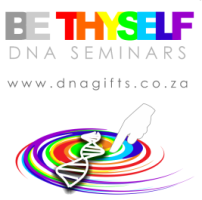
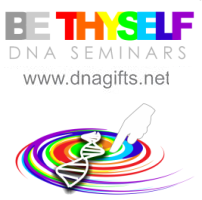
Change requests and updated (1.0.1)
- Applied some urgent change requests and update the the report.
- Gifts text formatting did not fit in PDF
- Report banner was missing after upgrading TCPDF, updated code to use
component media folder and not TCPDF
- Mountain graph heading was incorrect
- Many hardcoded links were wrong re attend event.
- Updated the raport banner and any imaged that had the old url in it.

Changed region(s): [[0.0297, 0.33, 0.9505, 0.45]]

diff --git a/com_dnagifts/site/helpers/dnagifts.php b/com_dnagifts/site/helpers/dnagifts.php
@@ -316,136 +316,5 @@ class DnagiftsHelper
 			}
 		}
 		return 0;
-	}
-	
-/*	
-	public static function generatepdf($author='Nicola Asuni', $title='TCPDF Example 001',
-				$subject='TCPDF Tutorial', $keywords='TCPDF, PDF, example, test, guide',
-				$documentname='example001', $html='No content', $displaytype='I')
-  {
-    @ob_end_clean();      
-    
-    require_once(JPATH_ROOT.DS.'tcpdf'.DS.'config/lang/eng.php');
-    require_once(JPATH_ROOT.DS.'tcpdf'.DS.'tcpdf.php');
-          
-    // create new PDF document
-    $pdf = new TCPDF(PDF_PAGE_ORIENTATION, PDF_UNIT, PDF_PAGE_FORMAT, true, 'UTF-8', false);
-    
-    // set document information
-    //$pdf->SetCreator(PDF_CREATOR);
-    $pdf->SetAuthor($author);
-    $pdf->SetTitle($title);
-    $pdf->SetSubject($subject);
-    $pdf->SetKeywords($keywords);
-    
-    // set default header data
-//    $pdf->SetHeaderData(PDF_HEADER_LOGO, PDF_HEADER_LOGO_WIDTH, PDF_HEADER_TITLE, PDF_HEADER_STRING);
-	$pdf->SetHeaderData('dna_banner1.jpg', 100, 'Your DNA Gifts Report', "by Juan Nel - DNAGifts.co.za\nwww.dnagifts.co.za");
-    
-    // set header and footer fonts
-    $pdf->setHeaderFont(Array(PDF_FONT_NAME_MAIN, '', PDF_FONT_SIZE_MAIN));
-    $pdf->setFooterFont(Array(PDF_FONT_NAME_DATA, '', PDF_FONT_SIZE_DATA));
-    
-    // set default monospaced font
-    $pdf->SetDefaultMonospacedFont(PDF_FONT_MONOSPACED);
-    
-    //set margins
-    $pdf->SetMargins(PDF_MARGIN_LEFT, PDF_MARGIN_TOP, PDF_MARGIN_RIGHT);
-    $pdf->SetHeaderMargin(PDF_MARGIN_HEADER);
-    $pdf->SetFooterMargin(PDF_MARGIN_FOOTER);
-    
-    //set auto page breaks
-    $pdf->SetAutoPageBreak(TRUE, PDF_MARGIN_BOTTOM);
-    
-    //set image scale factor
-    $pdf->setImageScale(PDF_IMAGE_SCALE_RATIO);
-    
-    //set some language-dependent strings
-    $pdf->setLanguageArray($l);
-    
-    // ---------------------------------------------------------
-    
-    // set default font subsetting mode
-    $pdf->setFontSubsetting(true);
-    
-    // Set font
-    // dejavusans is a UTF-8 Unicode font, if you only need to
-    // print standard ASCII chars, you can use core fonts like
-    // helvetica or times to reduce file size.
-    $pdf->SetFont('dejavusans', '', 14, '', true);
-    
-    // Add a page
-    // This method has several options, check the source code documentation for more information.
-    $pdf->AddPage();
-    
-    // Set some content to print
-//    $html = <<<EOD
-//<h1>Welcome to <a href="http://www.tcpdf.org" style="text-decoration:none;background-color:#CC0000;color:black;">&nbsp;<span style="color:black;">TC</span><span style="color:white;">PDF</span>&nbsp;</a>!</h1>
-//<i>This is the first example of TCPDF library.</i>
-//<p>This text is printed using the <i>writeHTMLCell()</i> method but you can also use: <i>Multicell(), writeHTML(), Write(), Cell() and Text()</i>.</p>
-//<p>Please check the source code documentation and other examples for further information.</p>
-//<p style="color:#CC0000;">TO IMPROVE AND EXPAND TCPDF I NEED YOUR SUPPORT, PLEASE <a href="http://sourceforge.net/donate/index.php?group_id=128076">MAKE A DONATION!</a></p>
-//EOD;
-    
-    // Print text using writeHTMLCell()
-    //$pdf->writeHTMLCell($w=0, $h=0, $x='', $y='', $html, $border=0, $ln=1, $fill=0, $reseth=true, $align='', $autopadding=true);
-		
-		// Print text using writeHTML()
-    $pdf->writeHTML($html);
-
-    // ---------------------------------------------------------
-
-	//$pdf->Image(<IMAGE URL>, <left>, <top>, <width>);
-//	$pdf->Image('http://chart.apis.google.com/chart?cht=ls&chd=t:1366,1459,2534,2551,2589&chco=76A4FB&chls=2.0,0.0,0.0&chxt=x&chxl=0:|19|20|21|22|23&chs=600x150&chds=1366,2589', 50, 150, 100);
-//	$pdf->Image('http://chart.apis.google.com/chart?cht=bvg&chs=200�125&chd=s:hello,world&chco=cc0000,00aa00', '', '', 100);
-    
-    // ---------------------------------------------------------
-    
-//	$pdf->ImageSVG($file='@<svg width="400" height="300" style="overflow: hidden;"><defs id="defs"/><rect x="0" y="0" width="400" height="300" stroke="none" stroke-width="0" fill="#ffffff"/><g><text text-anchor="start" x="77" y="38.35" font-family="Arial" font-size="11" font-weight="bold" stroke="none" stroke-width="0" fill="#000000">How Much Pizza I Ate Last Night</text></g><g><rect x="248" y="58" width="76" height="83" stroke="none" stroke-width="0" fill-opacity="0" fill="#ffffff"/><g><rect x="248" y="58" width="76" height="11" stroke="none" stroke-width="0" fill-opacity="0" fill="#ffffff"/><g><text text-anchor="start" x="263" y="67.35" font-family="Arial" font-size="11" stroke="none" stroke-width="0" fill="#222222">Mushrooms</text></g><rect x="248" y="58" width="11" height="11" stroke="none" stroke-width="0" fill="#3366cc"/></g><g><rect x="248" y="76" width="76" height="11" stroke="none" stroke-width="0" fill-opacity="0" fill="#ffffff"/><g><text text-anchor="start" x="263" y="85.35" font-family="Arial" font-size="11" stroke="none" stroke-width="0" fill="#222222">Onions</text></g><rect x="248" y="76" width="11" height="11" stroke="none" stroke-width="0" fill="#dc3912"/></g><g><rect x="248" y="94" width="76" height="11" stroke="none" stroke-width="0" fill-opacity="0" fill="#ffffff"/><g><text text-anchor="start" x="263" y="103.35" font-family="Arial" font-size="11" stroke="none" stroke-width="0" fill="#222222">Olives</text></g><rect x="248" y="94" width="11" height="11" stroke="none" stroke-width="0" fill="#ff9900"/></g><g><rect x="248" y="112" width="76" height="11" stroke="none" stroke-width="0" fill-opacity="0" fill="#ffffff"/><g><text text-anchor="start" x="263" y="121.35" font-family="Arial" font-size="11" stroke="none" stroke-width="0" fill="#222222">Zucchini</text></g><rect x="248" y="112" width="11" height="11" stroke="none" stroke-width="0" fill="#109618"/></g><g><rect x="248" y="130" width="76" height="11" stroke="none" stroke-width="0" fill-opacity="0" fill="#ffffff"/><g><text text-anchor="start" x="263" y="139.35" font-family="Arial" font-size="11" stroke="none" stroke-width="0" fill="#222222">Pepperoni</text></g><rect x="248" y="130" width="11" height="11" stroke="none" stroke-width="0" fill="#990099"/></g></g><g><path d="M154,151L154,75A76,76,0,0,1,207.74011537017762,204.7401153701776L154,151A0,0,0,0,0,154,151" stroke="#ffffff" stroke-width="1" fill="#3366cc"/><text text-anchor="start" x="183.37241046222232" y="136.26323901017514" font-family="Arial" font-size="11" stroke="none" stroke-width="0" fill="#ffffff">37.5%</text></g><g><path d="M154,151L78,151A76,76,0,0,1,154,75L154,151A0,0,0,0,0,154,151" stroke="#ffffff" stroke-width="1" fill="#990099"/><text text-anchor="start" x="105.37040213776933" y="117.22040213776936" font-family="Arial" font-size="11" stroke="none" stroke-width="0" fill="#ffffff">25%</text></g><g><path d="M154,151L100.2598846298224,204.74011537017762A76,76,0,0,1,78,151L154,151A0,0,0,0,0,154,151" stroke="#ffffff" stroke-width="1" fill="#109618"/><text text-anchor="start" x="93.62758953777768" y="173.43676098982488" font-family="Arial" font-size="11" stroke="none" stroke-width="0" fill="#ffffff">12.5%</text></g><g><path d="M154,151L154,227A76,76,0,0,1,100.2598846298224,204.74011537017762L154,151A0,0,0,0,0,154,151" stroke="#ffffff" stroke-width="1" fill="#ff9900"/><text text-anchor="start" x="118.28323932673234" y="203.65757780465376" font-family="Arial" font-size="11" stroke="none" stroke-width="0" fill="#ffffff">12.5%</text></g><g><path d="M154,151L207.74011537017762,204.7401153701776A76,76,0,0,1,154,227L154,151A0,0,0,0,0,154,151" stroke="#ffffff" stroke-width="1" fill="#dc3912"/><text text-anchor="start" x="158.71676067326766" y="203.65757780465373" font-family="Arial" font-size="11" stroke="none" stroke-width="0" fill="#ffffff">12.5%</text></g><g/></svg>', $x=30, $y=100, $w='', $h=100, $link='', $align='', $palign='', $border=0, $fitonpage=false);
-	$pdf->ImageSVG($file='@<svg style="overflow: hidden;" height="500" width="900"><defs id="defs"><clipPath id="_ABSTRACT_RENDERER_ID_0"><rect height="309" width="579" y="96" x="161"></rect></clipPath></defs><rect fill="#ffffff" stroke-width="0" stroke="none" height="500" width="900" y="0" x="0"></rect><g><text fill="#000000" stroke-width="0" stroke="none" font-weight="bold" font-size="14" font-family="Arial" y="70.9" x="161" text-anchor="start">Company Performance</text></g><g><rect fill="#ffffff" fill-opacity="0" stroke-width="0" stroke="none" height="37" width="132" y="96" x="754"></rect><g><rect fill="#ffffff" fill-opacity="0" stroke-width="0" stroke="none" height="14" width="132" y="96" x="754"></rect><g><text fill="#222222" stroke-width="0" stroke="none" font-size="14" font-family="Arial" y="107.9" x="773" text-anchor="start">Sales</text></g><rect fill="#3366cc" stroke-width="0" stroke="none" height="14" width="14" y="96" x="754"></rect></g><g><rect fill="#ffffff" fill-opacity="0" stroke-width="0" stroke="none" height="14" width="132" y="119" x="754"></rect><g><text fill="#222222" stroke-width="0" stroke="none" font-size="14" font-family="Arial" y="130.9" x="773" text-anchor="start">Expenses</text></g><rect fill="#dc3912" stroke-width="0" stroke="none" height="14" width="14" y="119" x="754"></rect></g></g><g><rect fill="#ffffff" fill-opacity="0" stroke-width="0" stroke="none" height="309" width="579" y="96" x="161"></rect><g clip-path="url(#_ABSTRACT_RENDERER_ID_0)"><g><rect fill="#cccccc" stroke-width="0" stroke="none" height="1" width="579" y="404" x="161"></rect><rect fill="#cccccc" stroke-width="0" stroke="none" height="1" width="579" y="327" x="161"></rect><rect fill="#cccccc" stroke-width="0" stroke="none" height="1" width="579" y="250" x="161"></rect><rect fill="#cccccc" stroke-width="0" stroke="none" height="1" width="579" y="173" x="161"></rect><rect fill="#cccccc" stroke-width="0" stroke="none" height="1" width="579" y="96" x="161"></rect></g><g><rect fill="#333333" stroke-width="0" stroke="none" height="1" width="579" y="404" x="161"></rect></g><g><path fill="none" fill-opacity="1" stroke-width="2" stroke="#3366cc" d="M233.75,173.5L378.25,108.05000000000001L522.75,304.4L667.25,161.95"></path><path fill="none" fill-opacity="1" stroke-width="2" stroke="#dc3912" d="M233.75,404.5L378.25,381.4L522.75,127.30000000000001L667.25,350.6"></path></g></g><g></g><g><g><text fill="#222222" stroke-width="0" stroke="none" font-size="14" font-family="Arial" y="425.9" x="233.75" text-anchor="middle">2004</text></g><g><text fill="#222222" stroke-width="0" stroke="none" font-size="14" font-family="Arial" y="425.9" x="378.25" text-anchor="middle">2005</text></g><g><text fill="#222222" stroke-width="0" stroke="none" font-size="14" font-family="Arial" y="425.9" x="522.75" text-anchor="middle">2006</text></g><g><text fill="#222222" stroke-width="0" stroke="none" font-size="14" font-family="Arial" y="425.9" x="667.25" text-anchor="middle">2007</text></g><g><text fill="#444444" stroke-width="0" stroke="none" font-size="14" font-family="Arial" y="409.4" x="147" text-anchor="end">400</text></g><g><text fill="#444444" stroke-width="0" stroke="none" font-size="14" font-family="Arial" y="332.4" x="147" text-anchor="end">600</text></g><g><text fill="#444444" stroke-width="0" stroke="none" font-size="14" font-family="Arial" y="255.4" x="147" text-anchor="end">800</text></g><g><text fill="#444444" stroke-width="0" stroke="none" font-size="14" font-family="Arial" y="178.4" x="147" text-anchor="end">1,000</text></g><g><text fill="#444444" stroke-width="0" stroke="none" font-size="14" font-family="Arial" y="101.4" x="147" text-anchor="end">1,200</text></g></g></g><g></g></svg>', $x=30, $y=100, $w='', $h=100, $link='', $align='', $palign='', $border=0, $fitonpage=false);
-	
-    // Close and output PDF document
-    // This method has several options, check the source code documentation for more information.
-    //$filename = $pdf->Output($documentname.'.pdf', $displaytype);
-	
-	if ($displaytype == 'F') {
-		$filename = JPATH_SITE.DS."tmp".DS.$documentname.".pdf";
-	} else {
-		$filename = $documentname.".pdf";
-	}
-	$pdf->Output($filename, $displaytype);
-	
-	
-	$subject = "You have a new message";
-	$body = "Here is the body of your message.";
-	$to = "louw.morne@gmail.com";
-	$from = array("louw.morne@ymail.com", "Morne Louw");
-	 
-	# Invoke JMail Class
-	$mailer = JFactory::getMailer();
-	 
-	# Set sender array so that my name will show up neatly in your inbox
-	$mailer->setSender($from);
-	 
-	# Add a recipient -- this can be a single address (string) or an array of addresses
-	$mailer->addRecipient($to);
-	 
-	$mailer->setSubject($subject);
-	$mailer->setBody($body);
-	 
-	# If you would like to send as HTML, include this line; otherwise, leave it out
-	$mailer->isHTML();
-	
-	//$attachment = JPATH_SITE."/README.txt";
-	$mailer->addAttachment($filename);
-	
-	# Send once you have set all of your options
-	$mailer->send();
-	
-	unlink($filename);
-	
-	echo "PDF EMAIL SENT 8";
-	}
-*/
-	
+	}	
 }

diff --git a/com_dnagifts/site/helpers/reports.php b/com_dnagifts/site/helpers/reports.php
@@ -7,7 +7,8 @@ require(JPATH_ROOT.DS.'tcpdf'.DS.'tcpdf.php');
 class MYPDF extends TCPDF {
     //Page header
     public function Header() {
-        $image_file = K_PATH_IMAGES.JText::_( 'COM_DNAGIFTS_PDF_BANNERIMAGE' );
+        //$image_file = K_PATH_IMAGES.JText::_( 'COM_DNAGIFTS_PDF_BANNERIMAGE' );
+		$image_file = JPATH_ROOT."/media/com_dnagifts/images/".JText::_( 'COM_DNAGIFTS_PDF_BANNERIMAGE' );
         $this->Image($image_file, 15, 10, 180, '', 'JPG', '', 'T', false, 300, '', false, false, 0, false, false, false);
     }
 	
@@ -62,7 +63,8 @@ class ReportsHelper
 					<img src="'.JURI::base(true).'/media/com_dnagifts/images/logo_DCC2.png" align="left" height="90px" style="padding-right: 30px; padding-bottom: 10px"/>
 				</td>
 				<td>
-					<p>The "BE Thyself" seminar runs over a four week period every month on Thursday evenings from 19:00 - 21:00. Click here if you would like to register as a delegate to attend the BE THYSELF seminar in the northern suburbs of Cape Town at the <a href="http://www.d-cc.co.za/" target="_new">Durbanville Conference Centre</a></p>
+					<p>The "BE Thyself" seminar runs over a four week period every month on Thursday evenings from 19:00 - 21:00. <a href="'.JURI::root().'upcoming-events/events-calender/be-thyself/1-be-thyself-seminar/event_details">Click here</a> if you would like to register as a delegate to attend the BE THYSELF seminar in the northern suburbs of Cape Town at the <a href="http://www.d-cc.co.za/" target="_new">Durbanville Conference Centre</a></p>
+					<p>Durbanville Conference Centre is the ideal venue in the Northern Suburbs of Cape Town for your next conference or function, <a href="http://www.d-cc.co.za" target="_new">click here</a> to visit to find out out more info</p>
 				</td>
 				</tr>
 			</table>';
@@ -82,7 +84,7 @@ class ReportsHelper
 					</li>
 				</td>
 				<td align="right" width="200px">
-					<a href="'.JURI::root().'events/be-thyself-seminar"><img height="150px" src="'.JURI::base(true).'/media/com_dnagifts/images/BETHYSELF1-267x265.png"/></a>
+					<a href="'.JURI::root().'events/be-thyself-seminar"><img height="130px" src="'.JURI::base(true).'/media/com_dnagifts/images/BETHYSELF1-267x265.png"/></a>
 				</td></tr></table>';
 		} else {		
 			$html.=	'<table width="100%"><tr><td>
@@ -96,21 +98,21 @@ class ReportsHelper
 					</li>
 				</td>
 				<td align="right">
-					<a href="'.JURI::root().'events/be-thyself-seminar"><img height="200px" src="'.JURI::base(true).'/media/com_dnagifts/images/BETHYSELF1-267x265.png"/></a>
+					<a href="'.JURI::root().'upcoming-events/events-calender/be-thyself/1-be-thyself-seminar/event_details"><img height="200px" src="'.JURI::base(true).'/media/com_dnagifts/images/BETHYSELF1-267x265.png"/></a>
 				</td></tr></table>';
 		}
 		
-		$html .=	'<p>Click <a href="'.JURI::root().'events/be-thyself-seminar">here</a> to view the course outline and register online for the seminar.</p>
+		$html .=	'<p>Click <a href="'.JURI::root().'upcoming-events/events-calender/be-thyself/1-be-thyself-seminar/event_details">here</a> to view the course outline and register online for the seminar.</p>
 			You can also host a seminar at your church, para-church organization or company.</p>'; 
 		
 		if ($type == 'pdf') {
 			$html .= '<table width="100%">
 					<tr>
 						<td align="center">
-							<a href="'.JURI::root().'upcoming-events/events-calender/be-thyself"><img height="50px" src="'.JURI::base(true).'/media/com_dnagifts/images/attendBUTTON.png" /></a>
+							<a href="'.JURI::root().'upcoming-events/events-calender/be-thyself/1-be-thyself-seminar/event_details"><img height="50px" src="'.JURI::base(true).'/media/com_dnagifts/images/attendBUTTON.png" /></a>
 						</td>
 						<td align="center">
-							<a href="'.JURI::root().'upcoming-events/rsvp"><img height="50px" src="'.JURI::base(true).'/media/com_dnagifts/images/course_button.png" /></a>
+							<a href="'.JURI::root().'upcoming-events/events-calender/be-thyself/1-be-thyself-seminar/event_details"><img height="50px" src="'.JURI::base(true).'/media/com_dnagifts/images/course_button.png" /></a>
 						</td>
 					</tr>
 					<tr><td colspan="2"> &nbsp; </td></tr>
@@ -119,10 +121,10 @@ class ReportsHelper
 			$html .= '<table width="100%">
 					<tr>
 						<td align="center">
-							<a href="'.JURI::root().'upcoming-events/events-calender/be-thyself"><img src="'.JURI::base(true).'/media/com_dnagifts/images/attendBUTTON.png" /></a>
+							<a href="'.JURI::root().'upcoming-events/events-calender/be-thyself/1-be-thyself-seminar/event_details"><img src="'.JURI::base(true).'/media/com_dnagifts/images/attendBUTTON.png" /></a>
 						</td>
 						<td align="center">
-							<a href="'.JURI::root().'upcoming-events/rsvp"><img src="'.JURI::base(true).'/media/com_dnagifts/images/course_button.png" /></a>
+							<a href="'.JURI::root().'upcoming-events/events-calender/be-thyself/1-be-thyself-seminar/event_details"><img src="'.JURI::base(true).'/media/com_dnagifts/images/course_button.png" /></a>
 						</td>
 					</tr>
 				</table>';
@@ -825,7 +827,7 @@ class ReportsHelper
 		$html = '<table border="0" cellpadding="0" cellspacing="0" width="910">
 					<tr>
 						<td width="120">
-							<a href="'.JURI::root().'purchase/purpose-life/the-dna-gifts-book-1-detail">
+							<a href="'.JURI::root().'purchase">
 								<img border="0" src="'.JURI::base(true).'/media/com_dnagifts/images/dna_book.jpg" width="100px" />
 							</a>
 						</td>
@@ -834,7 +836,7 @@ class ReportsHelper
 							<p>'.JText::_('COM_DNAGIFTS_REPORT_BOOKDETAILS').'</p>
 						</td>
 						<td width="100">
-							<a id="buyBtn" href="'.JURI::root().'purchase/purpose-life/the-dna-gifts-book-1-detail">
+							<a id="buyBtn" href="'.JURI::root().'purchase">
 								<img border="0" src="'.JURI::base(true).'/media/com_dnagifts/images/buy_book.jpg" width="110px"/>
 							</a>
 						</td>

diff --git a/com_dnagifts/site/views/report/tmpl/default.php b/com_dnagifts/site/views/report/tmpl/default.php
@@ -139,7 +139,7 @@ $first_name 		= ReportsHelper::extractFirstName();
 			<td><p class="rptText16 reportHeading"><?php echo JText::_('COM_DNAGIFTS_REPORT_MOTIFLOW_HEAD'); ?></p></td>
 			<td>&nbsp;</td>
 			<td>
-				<p class="rptText12"><strong><?php echo JText::_('COM_DNAGIFTS_REPORT_DNACOMP_INTERP'); ?></strong></p>
+				<p class="rptText12"><strong><?php echo JText::_('COM_DNAGIFTS_REPORT_MOTIFLOW_INTERP'); ?></strong></p>
 			</td>
 		</tr>
 		<tr>
@@ -305,7 +305,7 @@ $first_name 		= ReportsHelper::extractFirstName();
 				<table border="0" cellpadding="0" cellspacing="0" width="100%" style="border:0 !important">
 					<tr>
 						<td width="165px">
-							<a href="'.JURI::root().'purchase/purpose-life/the-dna-gifts-book-1-detail">
+							<a href="'.JURI::root().'purchase">
 								<img src="<?php echo JURI::base(true) ?>/media/com_dnagifts/images/dna_book.jpg" width="150px" height="198px" />
 							</a>
 						</td>
@@ -314,7 +314,7 @@ $first_name 		= ReportsHelper::extractFirstName();
 							<p><?php echo JText::_('COM_DNAGIFTS_REPORT_BOOKDETAILS'); ?></p>
 						</td>
 						<td>
-							<a id="buyBtn" href="<?php echo JURI::root(); ?>purchase/purpose-life/the-dna-gifts-book-1-detail">
+							<a id="buyBtn" href="<?php echo JURI::root(); ?>purchase">
 								<!--<img src="<?php echo JURI::base(true) ?>/media/com_dnagifts/images/buy_book.jpg" width="150px" height="112px" style="margin-top:80px"/>-->
 							</a>
 						</td>
